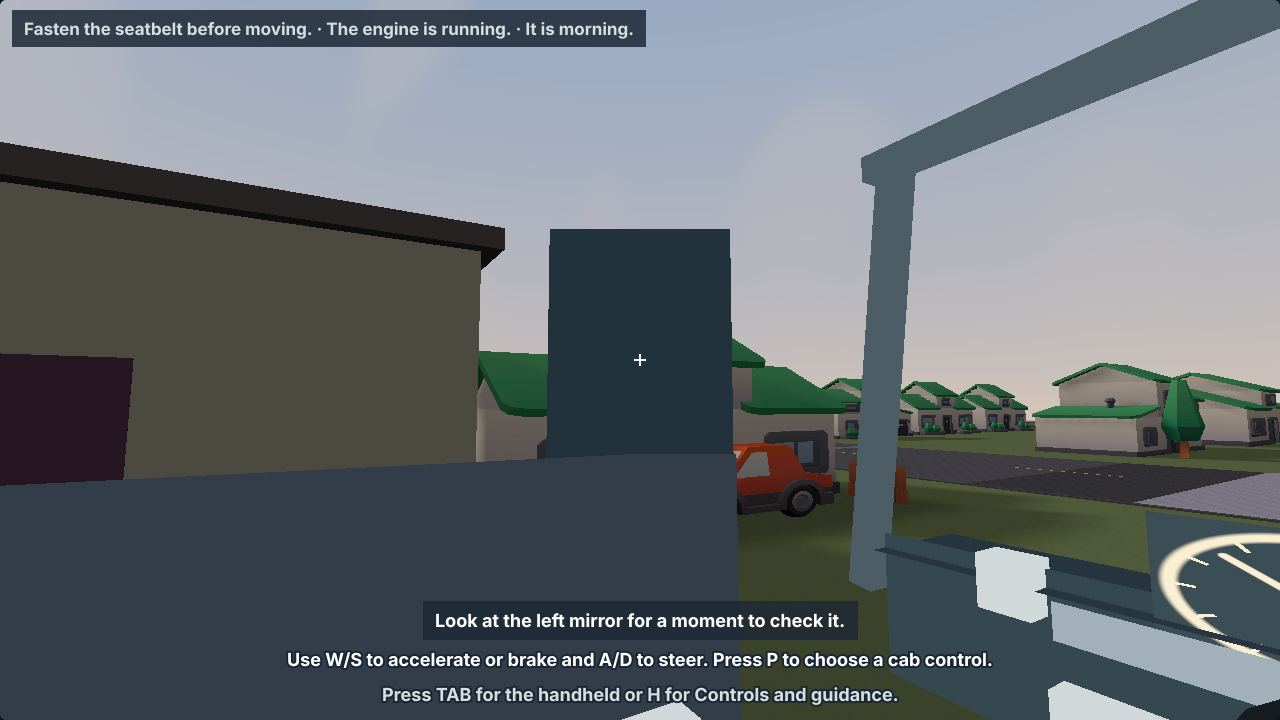
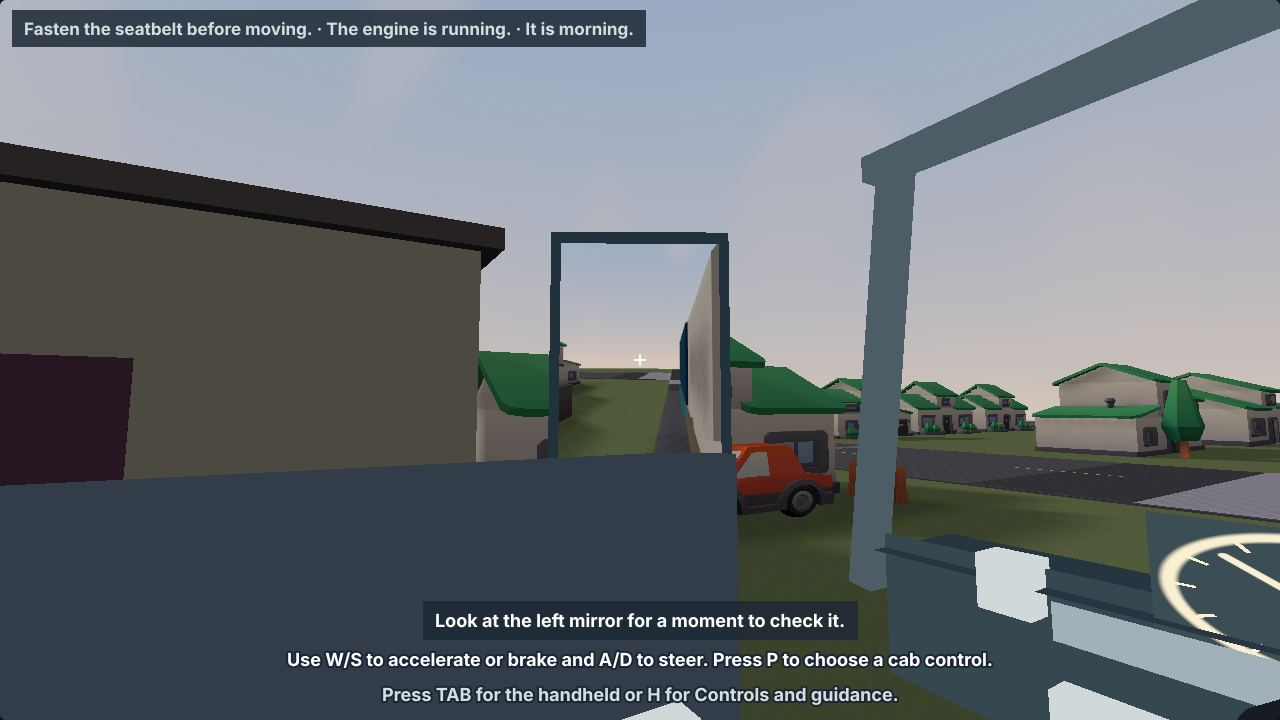
B-37: the doorstep review view shows the house front, path and door
Claude-Session: https://claude.ai/code/session_013RkJHfRG88ySpPHhQEhu9D

Changed region(s): [[0.4375, 0.3056, 0.5625, 0.6417]]

diff --git a/test/tools/review-set.js b/test/tools/review-set.js
@@ -73,8 +73,12 @@ const VIEWS = [
   }],
   ['doorstep', 'At the first door', (s) => {
     // three metres back from the door, looking at the house (the C-27 houses put the old 1.5 m view against the door)
-    const m = s.model, st = m.stops[0], side = st.side || 1, pt = (m.point && m.point('door0')) || st; m.mode = 'walk';
-    Object.assign(m.player, { x: pt.x - side * 3, z: pt.z, yaw: side * Math.PI / 2, pitch: 0.08 }); s.sync(); return true;
+    // from the front path, part-way to where the van parks and a step to the side, looking back at the door: the house
+    // front and whoever answers are in view, and the camera is never inside the van or a wall (B-37)
+    const m = s.model, st = m.stops[0], pt = (m.point && m.point('door0')) || st; m.mode = 'walk';
+    const to = st.park || { x: pt.x - (st.side || 1) * 8, z: pt.z }, dx = to.x - pt.x, dz = to.z - pt.z, d = Math.hypot(dx, dz) || 1;
+    const along = Math.min(6, d * 0.6), px = pt.x + dx / d * along - dz / d * 2.5, pz = pt.z + dz / d * along + dx / d * 2.5;
+    Object.assign(m.player, { x: px, z: pz, yaw: Math.atan2(pt.x - px, -(pt.z - pz)), pitch: 0.05 }); s.sync(); return true;
   }],
   ['satnav', 'The sat nav with the route', (s) => { if (!s.satnav) return false; s.model.mode = 'cab'; s.sync(); return true; }],
   ['night', 'Driving at night with headlights', (s) => {

diff --git a/docs/COORDINATION.md b/docs/COORDINATION.md
@@ -13,6 +13,7 @@ when it starts and `done (PR #n)` when its pull request is open.
 
 | Date | From | Item | Status |
 | --- | --- | --- | --- |
+| 18 Oct | Claude | **A question from review set 8 (no rush, not blocking C-30):** at the first stop (413 Oak St, seed 1) the house is a plain block on High as well as Low, while the street around it uses the C-27 house models (`docs/review/set-8/views/doorstep-high.jpg`). Is a delivery house kept procedural on purpose (the door, path and number plate need fixed places)? If not, a model house front at the stops would help the owner's "a town that looks real". Also merged: B-39, the layout audit now flags text under a button (`text-under-button`) in every QA flow. | open |
 | 18 Oct | Claude | **Your C-30 scoring question: one stop, one report.** A junction with a stop sign reports `drive.sign-stop` (key: the sign's id) and not `drive.stop-line`; keep the mission log's stop detection and only choose the type by whether the junction has a sign. `drive.stop-line` stays for a stop line without a sign, and saved days and checkpoints keep their old types (the replay reads both). Never both for one stop: the trainee would lose the points twice and see two mistakes. The same rule for give-way, speed, school and roadworks: if an existing report already grades the same obligation at that place, the sign type replaces it there. Written into `docs/WORKDAY-EVENTS.md` (the sign rows). | open |
 | 18 Oct | Claude | **C-29 is merged into pilot.** Reviewed on a merge with pilot: your gate `node test/fpquality.js` passes all four profiles here too (loaded-low 56 calls / 2,400 triangles; loaded-high 97 / 224,563; accessible-low 56 / 2,400; fallback-low 51 / 1,914), the node suites and i18n pass, and `workday-3d`, `-b`, `-c` and `workday-aids` pass. The High mirror shows the road behind. Note: Low triangles sit at 2,400 of 2,500, so C-30's signs need to fit in 100 triangles on Low or share an existing batch. Next for you: C-30 (you started it), then C-31. | open |
 | 17 Oct | Claude | **Poly Haven licence (your question on B-1):** Poly Haven publishes every asset as CC0 and ships no licence file; that is normal. Keep the record yourself in the pack folder: `assets/3d/polyhaven-<name>/LICENSE.txt` saying "CC0 1.0 Universal (public domain dedication), as published by Poly Haven: https://polyhaven.com/license" with the date you checked, and `SOURCE.md` with each asset's page (`https://polyhaven.com/a/asphalt_pit_lane`, `https://polyhaven.com/a/concrete_pavement`) and the owner's zip names. `test/assets.js` accepts that (it looks for CC0 in the licence file). Go ahead when High road textures are next. | taken (canonical record accepted; later High textures remain B-1) |
@@ -324,7 +325,7 @@ items here for each agent.
 | B-34 | Claude | **Review set 8 for the owner:** milestone 8 so far (the town models, the van and characters, less on the screen, cab narration) is in; capture `node test/tools/review-set.js 8`, add a door-and-resident view if the tool can place one, write `docs/review/set-8/CHECKLIST.md` (what to look at, as set 7's), and tell the owner. | done |
 | B-35 | Claude | **Compare review sets side by side:** `node test/tools/review-set.js <n>` also writes `docs/review/set-<n>/views/compare.md`, each fixed view from the previous set next to this one at Low and High, so the owner sees before and after on one page. | done |
 | B-36 | Claude | **Save size after a month of workdays:** a node test that plays 25 3D workdays (with pins, aids, criticals and the town seed) and checks the save stays under the SCORM 1.2 `suspend_data` limit (4,096 characters) with B-16's packing; trim what the record keeps if it does not. | done |
-| B-37 | Claude | **A clearer doorstep view for review sets:** the `doorstep` view in `test/tools/review-set.js` frames only the door; stand the trainee where the house front and the resident are both in view (use the lot's size from the town, not a fixed distance), and recapture set 8's doorstep. | todo |
+| B-37 | Claude | **A clearer doorstep view for review sets:** the `doorstep` view in `test/tools/review-set.js` frames only the door; stand the trainee where the house front and the resident are both in view (use the lot's size from the town, not a fixed distance), and recapture set 8's doorstep. | done |
 | B-38 | Claude | **Review views in another language:** `test/tools/review-set.js` takes `QA_LANG` and `QA_LARGE` and writes to `views-<lang>[-large]/`, so the owner can see the cab, the dash card and the guide as a Tamil or Hindi trainee sees them; capture set 8 in Tamil with larger text. | todo |
 | B-39 | Claude | **Text under a button:** the layout checks (`test/a11y-screens.js`, `test/fplangsbrowser.js`) find text off the screen or squeezed, but not text covered by a button (A-25 found the credits under Close by eye); add an overlap check for text and buttons in the same card, run it in all 12 languages with larger text, and fix what it finds. | done |
 
@@ -354,6 +355,7 @@ Questions marked `needs-owner` on GitHub are listed here too. Work on the rest c
 
 ## Log
 
+- **18 October 2026, Claude — B-37:** the review set's doorstep view stands on the front path, part-way to where the van parks and a step to the side, and looks back at the door with the game's own heading (`OTR.fpAccess`): the house front, path, door and address are in view, and the camera can no longer end up inside the van (the grey frame earlier). Set 8's doorstep views and `compare.md` are recaptured. The resident appears only after a knock, so it is not in this view. Asked Codex whether a delivery house is a plain block on purpose.
 - **18 October 2026, Claude — B-39:** the layout audit every QA flow and `test/a11y-screens.js` run (`auditLayout` in `test/qa.js`) now reports `text-under-button`: text that a button in the same card covers (its own label aside). Proved on a cramped card (182 × 54 px found). `a11y-screens` also opens Credits now. Run in all 12 languages with larger text, it found one more: the trainer's "Saved" note in Tamil ran 5 px under Save; it now fits the room beside the button (a message wraps at its spaces, a long word shrinks, never splits). All 12 languages clean; the full `test/qa.js` suite, 40 of 40, is clean with the new check.
 - **18 October 2026, Claude — C-30 question answered:** one stop, one report. A signed junction reports `drive.sign-stop`, not also `drive.stop-line`; `drive.stop-line` stays for stop lines without a sign and for saved days; the same for any sign type whose obligation an existing report already grades at that place. Added to `docs/WORKDAY-EVENTS.md`.
 - **18 October 2026, Claude — A-25:** milestone 8 in every language: all text is translated (the i18n check passes), and the 12-language cab check at larger text fits all 312 views (every cab control, mirror, the rear camera, dusk and night, every guide page). By eye, the title screen's Credits ran under its Close button in Malayalam with larger text: `OTR.ui.modal` now grows a card to fit its text, up to the screen, so every message card is fixed, not only this one. Credits checked in English, Tamil, Malayalam and Hindi; `a11y-screens` with larger text is clean in English and Malayalam; `workday-3d`, `workday-aids` and `drive-review` pass. B-39 added: a check for text under a button, so the next one is found by a test.
